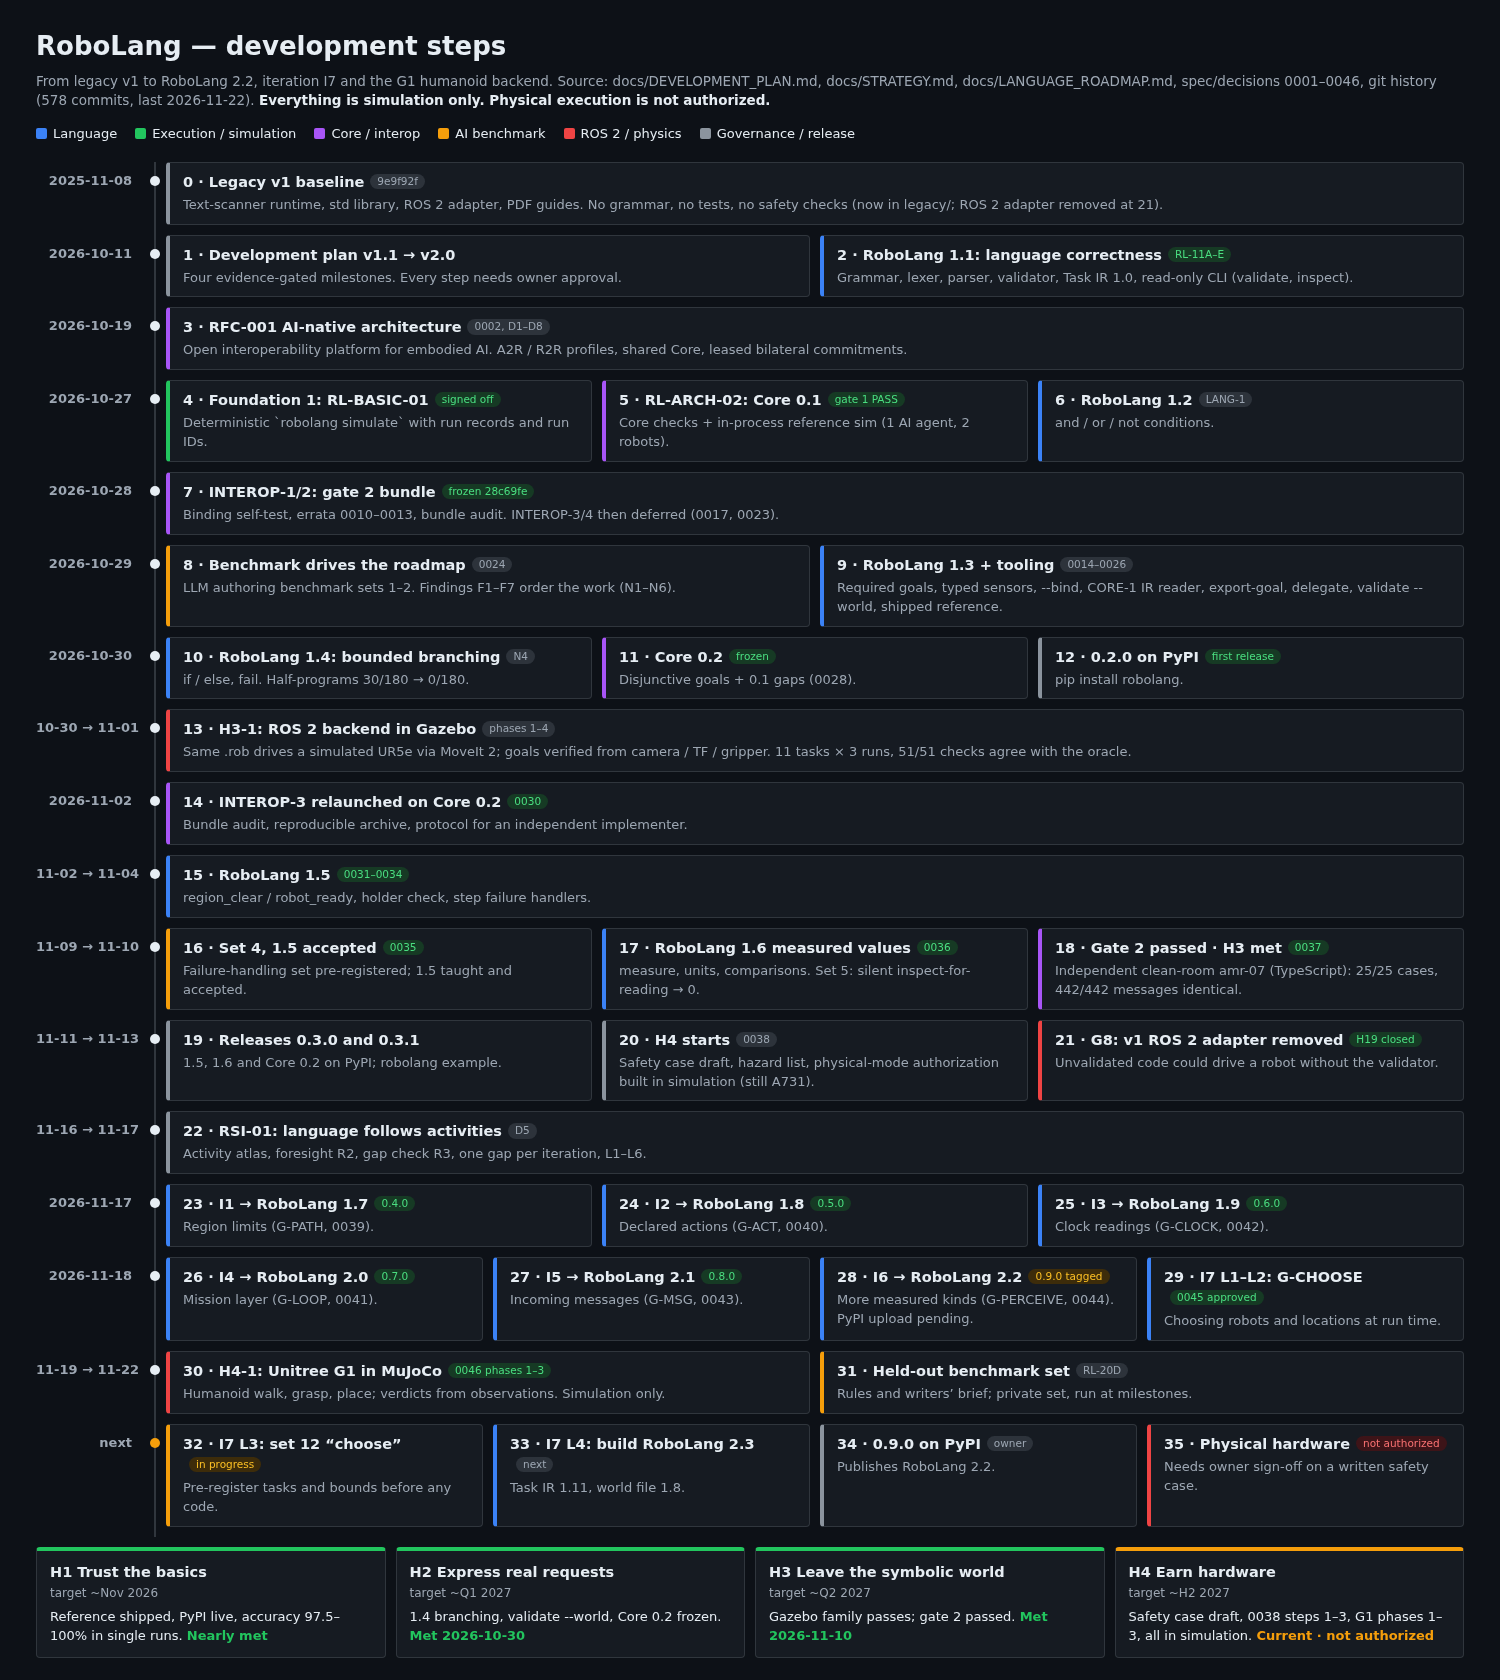
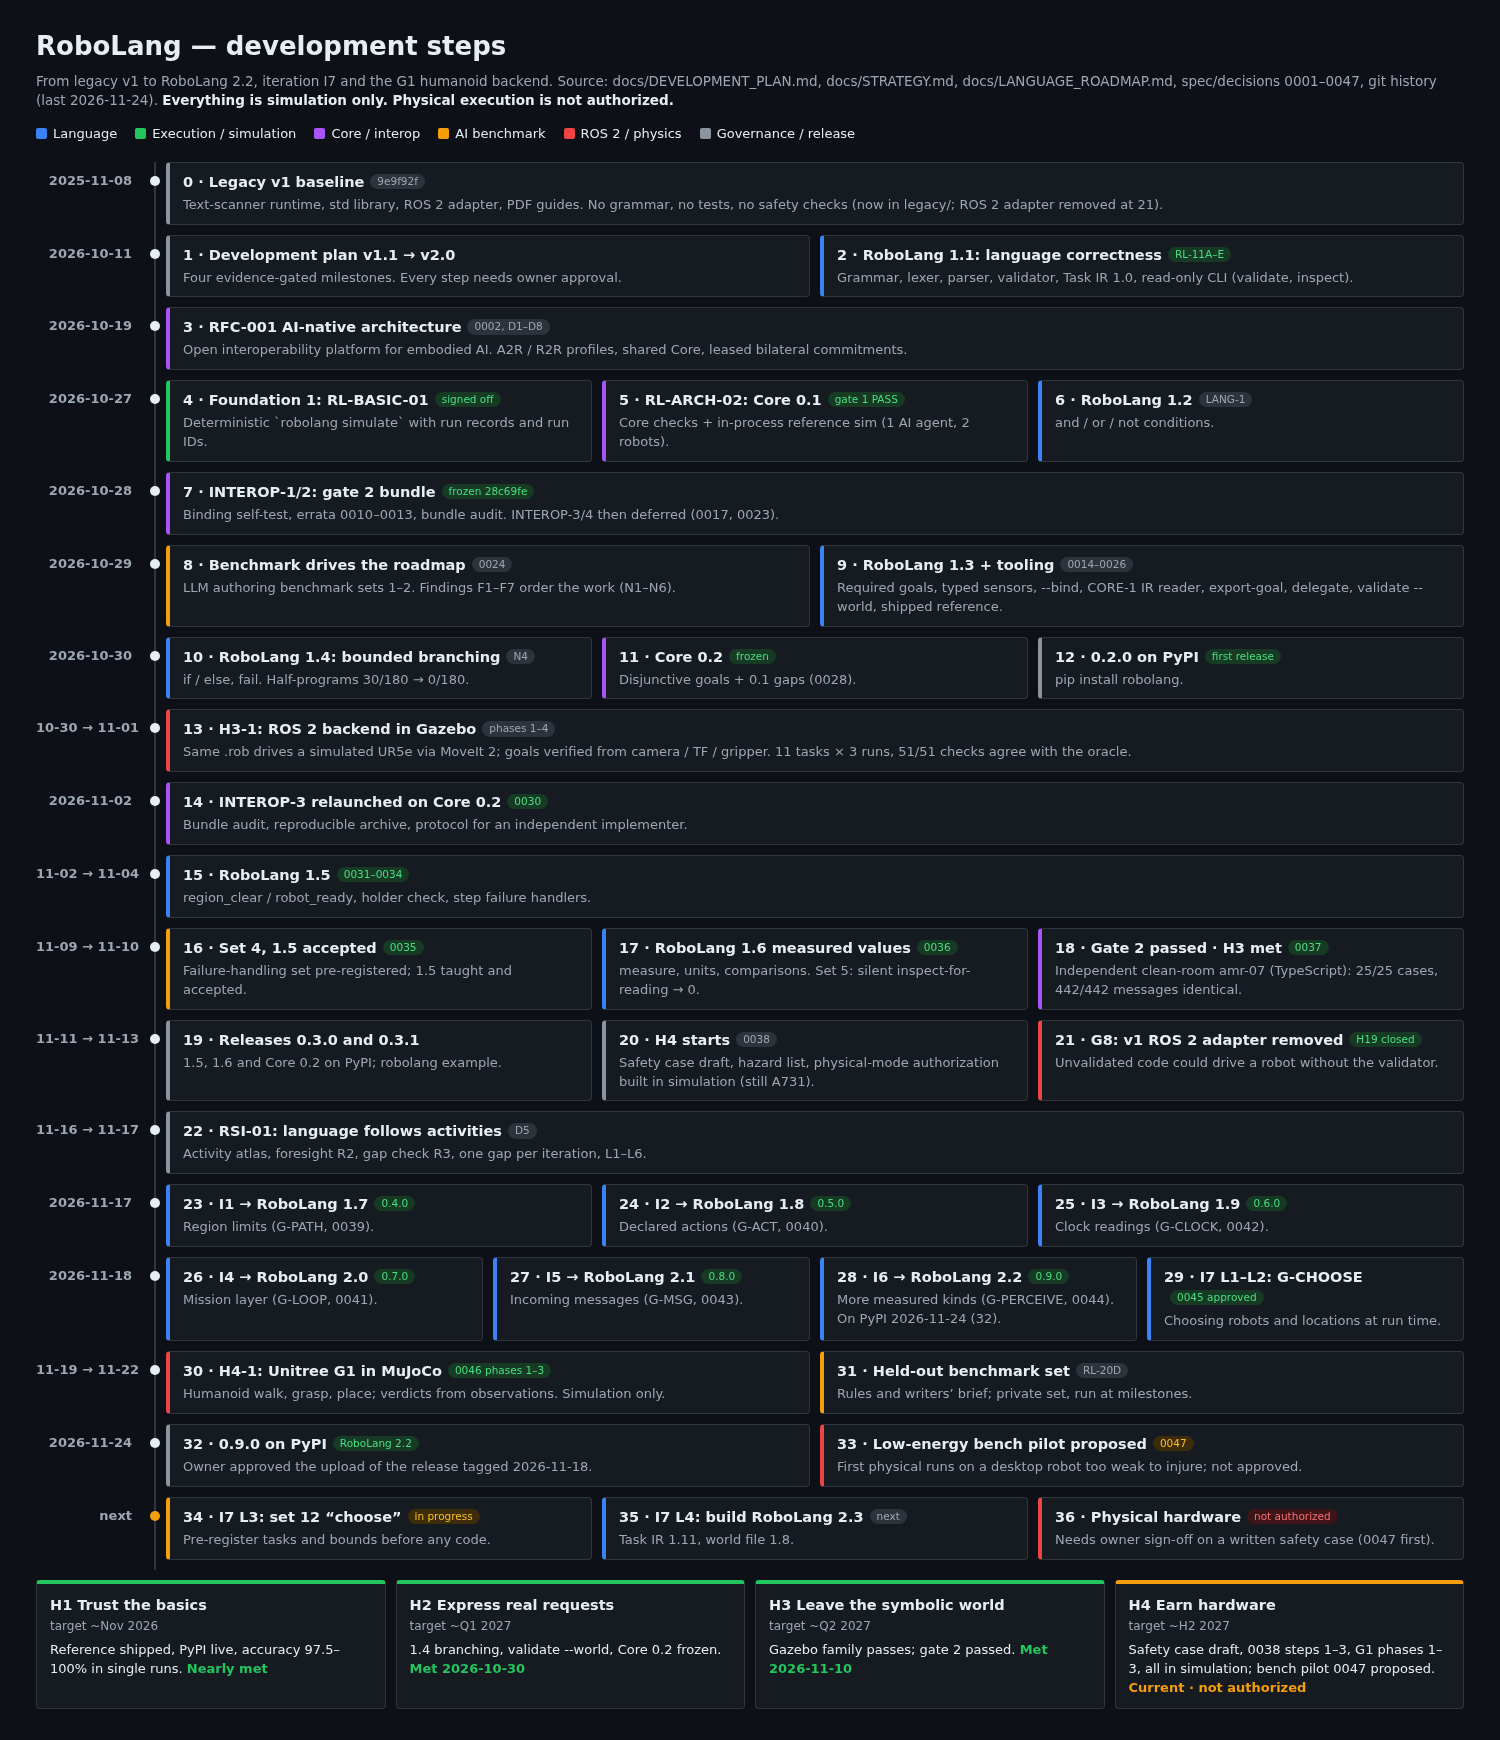
0.9.0 is on PyPI (2026-11-24): timeline steps 32-33, roadmap I6, docs home Ed25519 line
- development steps: 32 0.9.0 on PyPI, 33 bench pilot 0047 proposed; next renumbered 34-36;
  PNG re-rendered from development-steps.html
- LANGUAGE_ROADMAP: I6 release on PyPI since 2026-11-24
- docs/index.md: robolang[ed25519] has been released since 0.4.0, not unreleased

diff --git a/docs/development-steps.html b/docs/development-steps.html
@@ -2,7 +2,7 @@
 <!--
   Source of development-steps.png. Keep it in step with the Mermaid timeline in
   development-steps.md: edit the `steps` and `horizons` lists below, then render:
-    chromium --headless --screenshot=docs/development-steps.png --window-size=1500,1680 docs/development-steps.html
+    chromium --headless --screenshot=docs/development-steps.png --window-size=1500,1740 docs/development-steps.html
   No network, no dependencies.
 -->
 <html lang="en">
@@ -46,7 +46,7 @@
 <div class="page">
   <h1>RoboLang — development steps</h1>
   <p class="sub">From legacy v1 to RoboLang 2.2, iteration I7 and the G1 humanoid backend. Source: docs/DEVELOPMENT_PLAN.md,
-    docs/STRATEGY.md, docs/LANGUAGE_ROADMAP.md, spec/decisions 0001–0046, git history (578 commits, last 2026-11-22).
+    docs/STRATEGY.md, docs/LANGUAGE_ROADMAP.md, spec/decisions 0001–0047, git history (last 2026-11-24).
     <b>Everything is simulation only. Physical execution is not authorized.</b></p>
   <div class="legend">
     <span style="--c:var(--lang)">Language</span><span style="--c:var(--exec)">Execution / simulation</span>
@@ -88,20 +88,21 @@ const steps = [
                   [25, 'I3 → RoboLang 1.9', '0.6.0', 'ok', 'Clock readings (G-CLOCK, 0042).', 'lang']]],
   ['2026-11-18', [[26, 'I4 → RoboLang 2.0', '0.7.0', 'ok', 'Mission layer (G-LOOP, 0041).', 'lang'],
                   [27, 'I5 → RoboLang 2.1', '0.8.0', 'ok', 'Incoming messages (G-MSG, 0043).', 'lang'],
-                  [28, 'I6 → RoboLang 2.2', '0.9.0 tagged', 'warn', 'More measured kinds (G-PERCEIVE, 0044). PyPI upload pending.', 'lang'],
+                  [28, 'I6 → RoboLang 2.2', '0.9.0', 'ok', 'More measured kinds (G-PERCEIVE, 0044). On PyPI 2026-11-24 (32).', 'lang'],
                   [29, 'I7 L1–L2: G-CHOOSE', '0045 approved', 'ok', 'Choosing robots and locations at run time.', 'lang']]],
   ['11-19 → 11-22', [[30, 'H4-1: Unitree G1 in MuJoCo', '0046 phases 1–3', 'ok', 'Humanoid walk, grasp, place; verdicts from observations. Simulation only.', 'ros'],
                      [31, 'Held-out benchmark set', 'RL-20D', '', 'Rules and writers’ brief; private set, run at milestones.', 'bench']]],
-  ['next', [[32, 'I7 L3: set 12 “choose”', 'in progress', 'warn', 'Pre-register tasks and bounds before any code.', 'bench'],
-            [33, 'I7 L4: build RoboLang 2.3', 'next', '', 'Task IR 1.11, world file 1.8.', 'lang'],
-            [34, '0.9.0 on PyPI', 'owner', '', 'Publishes RoboLang 2.2.', 'gov'],
-            [35, 'Physical hardware', 'not authorized', 'no', 'Needs owner sign-off on a written safety case.', 'ros']], true],
+  ['2026-11-24', [[32, '0.9.0 on PyPI', 'RoboLang 2.2', 'ok', 'Owner approved the upload of the release tagged 2026-11-18.', 'gov'],
+                  [33, 'Low-energy bench pilot proposed', '0047', 'warn', 'First physical runs on a desktop robot too weak to injure; not approved.', 'ros']]],
+  ['next', [[34, 'I7 L3: set 12 “choose”', 'in progress', 'warn', 'Pre-register tasks and bounds before any code.', 'bench'],
+            [35, 'I7 L4: build RoboLang 2.3', 'next', '', 'Task IR 1.11, world file 1.8.', 'lang'],
+            [36, 'Physical hardware', 'not authorized', 'no', 'Needs owner sign-off on a written safety case (0047 first).', 'ros']], true],
 ];
 const horizons = [
   ['H1 Trust the basics', '~Nov 2026', 'exec', 'Reference shipped, PyPI live, accuracy 97.5–100% in single runs.', 'Nearly met'],
   ['H2 Express real requests', '~Q1 2027', 'exec', '1.4 branching, validate --world, Core 0.2 frozen.', 'Met 2026-10-30'],
   ['H3 Leave the symbolic world', '~Q2 2027', 'exec', 'Gazebo family passes; gate 2 passed.', 'Met 2026-11-10'],
-  ['H4 Earn hardware', '~H2 2027', 'bench', 'Safety case draft, 0038 steps 1–3, G1 phases 1–3, all in simulation.', 'Current · not authorized'],
+  ['H4 Earn hardware', '~H2 2027', 'bench', 'Safety case draft, 0038 steps 1–3, G1 phases 1–3, all in simulation; bench pilot 0047 proposed.', 'Current · not authorized'],
 ];
 const esc = (t) => t.replace(/&/g, '&amp;').replace(/</g, '&lt;');
 document.getElementById('timeline').innerHTML = steps.map(([date, cards, next]) =>

diff --git a/docs/development-steps.md b/docs/development-steps.md
@@ -3,14 +3,14 @@
 A one-page history of RoboLang, from the legacy v1 code to RoboLang 2.2, iteration I7 of the
 [language roadmap](LANGUAGE_ROADMAP.md) and the Unitree G1 humanoid backend. Sources:
 [development plan](DEVELOPMENT_PLAN.md), [strategy](STRATEGY.md), [language roadmap](LANGUAGE_ROADMAP.md),
-[decision records](../spec/decisions/) 0001–0046 and git history up to 2026-11-22.
+[decision records](../spec/decisions/) 0001–0047 and git history up to 2026-11-24.
 
 > ⚠ Everything below is simulation only. Physical execution is not authorized.
 
 The Mermaid diagram below is the editable source. Update it when a step lands.
 [`development-steps.png`](development-steps.png) is a snapshot as of 2026-11-24, rendered from
 [`development-steps.html`](development-steps.html): update the `steps` list there too, then re-render with
-`chromium --headless --screenshot=docs/development-steps.png --window-size=1500,1680 docs/development-steps.html`.
+`chromium --headless --screenshot=docs/development-steps.png --window-size=1500,1740 docs/development-steps.html`.
 
 ```mermaid
 timeline
@@ -29,9 +29,10 @@ timeline
     2026-11-11 to 11-13 : 19 · Release 0.3.0 (1.5, 1.6, Core 0.2) and 0.3.1 : 20 · H4 starts, safety case draft, 0038 physical-mode authorization (still refused, A731) : 21 · G8 v1 ROS 2 adapter removed from legacy/ (H19)
     2026-11-16 to 11-17 : 22 · RSI-01 activity atlas, foresight R2, gap check R3, language cycle L1–L6 (D5)
     2026-11-17 : 23 · I1 G-PATH → 1.7 region limits (0039), 0.4.0 : 24 · I2 G-ACT → 1.8 declared actions (0040), 0.5.0 : 25 · I3 G-CLOCK → 1.9 clock readings (0042), 0.6.0
-    2026-11-18 : 26 · I4 G-LOOP → 2.0 mission layer (0041), 0.7.0 : 27 · I5 G-MSG → 2.1 incoming messages (0043), 0.8.0 : 28 · I6 G-PERCEIVE → 2.2 more measured kinds (0044), 0.9.0 tagged : 29 · I7 G-CHOOSE L1–L2, 0045 approved
+    2026-11-18 : 26 · I4 G-LOOP → 2.0 mission layer (0041), 0.7.0 : 27 · I5 G-MSG → 2.1 incoming messages (0043), 0.8.0 : 28 · I6 G-PERCEIVE → 2.2 more measured kinds (0044), 0.9.0 : 29 · I7 G-CHOOSE L1–L2, 0045 approved
     2026-11-19 to 11-22 : 30 · H4-1 Unitree G1 humanoid backend in MuJoCo (0046), phases 1–3, simulation only : 31 · Held-out benchmark set rules (RL-20D)
-    Next : 32 · I7 L3 set 12 choose pre-registered : 33 · I7 L4 build RoboLang 2.3, Task IR 1.11, world file 1.8 : 34 · 0.9.0 on PyPI (owner approval) : 35 · Physical hardware (not authorized)
+    2026-11-24 : 32 · 0.9.0 on PyPI (owner approved the upload) : 33 · Low-energy bench pilot proposed (0047, not approved)
+    Next : 34 · I7 L3 set 12 choose pre-registered : 35 · I7 L4 build RoboLang 2.3, Task IR 1.11, world file 1.8 : 36 · Physical hardware (not authorized)
 ```
 
 ## Horizons ([strategy](STRATEGY.md) section 3)
@@ -41,4 +42,4 @@ timeline
 | H1 Trust the basics | ~Nov 2026 | Nearly met: reference shipped, PyPI live, accuracy 97.5–100% in single runs; the deciding three-repeat run (2026-11-16) is not recorded in the strategy |
 | H2 Express real requests | ~Q1 2027 | Met 2026-10-30. Since then 1.5 to 2.2 built and accepted on pre-registered sets 4–11 |
 | H3 Leave the symbolic world | ~Q2 2027 | Met 2026-11-10: Gazebo task family passes; gate 2 passed with an independent Core 0.2 implementation |
-| H4 Earn hardware | ~H2 2027 | Current horizon since 2026-11-12: safety case draft, 0038 steps 1–3 and the G1 backend phases 1–3, all in simulation. Physical mode not authorized |
+| H4 Earn hardware | ~H2 2027 | Current horizon since 2026-11-12: safety case draft, 0038 steps 1–3 and the G1 backend phases 1–3, all in simulation; a low-energy bench pilot proposed (0047). Physical mode not authorized |

diff --git a/docs/LANGUAGE_ROADMAP.md b/docs/LANGUAGE_ROADMAP.md
@@ -90,7 +90,7 @@ Frozen, dated copies with a git tag: [roadmap-snapshots/](roadmap-snapshots/READ
 | I3 G-CLOCK | L1–L5 done (accepted 2026-11-17, [acceptance](evidence/bench-1-9-acceptance.md)). **L6:** G-CLOCK closed in the atlas; release 0.6.0 with RoboLang 1.9 prepared, published by the owner (strategy D3) |
 | I4 G-LOOP (mission layer) | L1–L5 done (accepted 2026-11-18 with one exception, [acceptance](evidence/bench-2-0-acceptance.md): repetition replaced silently 4/30 → 0/30). **L6:** G-LOOP closed in the atlas, G-UNBOUNDED split off (out, 0041 M2/M7); release 0.7.0 with RoboLang 2.0 prepared, published by the owner (strategy D3) |
 | I5 G-MSG | L1–L5 done (accepted 2026-11-18, [acceptance](evidence/bench-2-1-acceptance.md): every bound met). **L6:** G-MSG closed in the atlas; release 0.8.0 with RoboLang 2.1, published after the owner approves the PyPI upload |
-| I6 G-PERCEIVE | L1–L5 done (accepted 2026-11-18 with erratum P7, [acceptance](evidence/bench-2-2-acceptance.md): no reading replaced or changed, 0/30). **L6:** G-PERCEIVE closed in the atlas, G-QUALITY split off (far); release 0.9.0 with RoboLang 2.2, published after the owner approves the PyPI upload |
+| I6 G-PERCEIVE | L1–L5 done (accepted 2026-11-18 with erratum P7, [acceptance](evidence/bench-2-2-acceptance.md): no reading replaced or changed, 0/30). **L6:** G-PERCEIVE closed in the atlas, G-QUALITY split off (far); release 0.9.0 with RoboLang 2.2, on PyPI since 2026-11-24 (owner approved the upload) |
 | I7 G-CHOOSE | L1–L2 done (0045 approved 2026-11-18: C1–C12 as recommended). **L3:** set 12 "choose" being pre-registered |
 | I8–I10 | Not started |
 | I11–I20 | Proposed 2026-11-18; not in the suggested order yet (see above) |

diff --git a/docs/index.md b/docs/index.md
@@ -10,9 +10,9 @@ merely because the steps ran.
   Task IR 1.0 to 1.10, a symbolic simulator with reproducible run records, and RoboLang Core 0.1
   and 0.2 messages: `export-goal` sends a task's goal, and `delegate` hands it to a robot and
   accepts success only after checking the signed evidence. All of it runs in simulation.
-- **Not available:** physical robot execution and network transport. Unreleased work on `main`
-  adds optional Ed25519 signatures (`robolang[ed25519]`) and a signed authorization chain for
-  physical runs, which still always refuses (`A731`).
+- **Not available:** physical robot execution and network transport. The optional extra
+  `robolang[ed25519]` (since 0.4.0) adds real Ed25519 signatures and a signed authorization chain
+  for physical runs, which still always refuses (`A731`).
 
 > ⚠ **Simulation only.** Physical robot execution is not implemented or authorized. RoboLang
 > does not replace ROS 2, MoveIt 2, Nav2 or hardware safety controllers. Do not run it against
